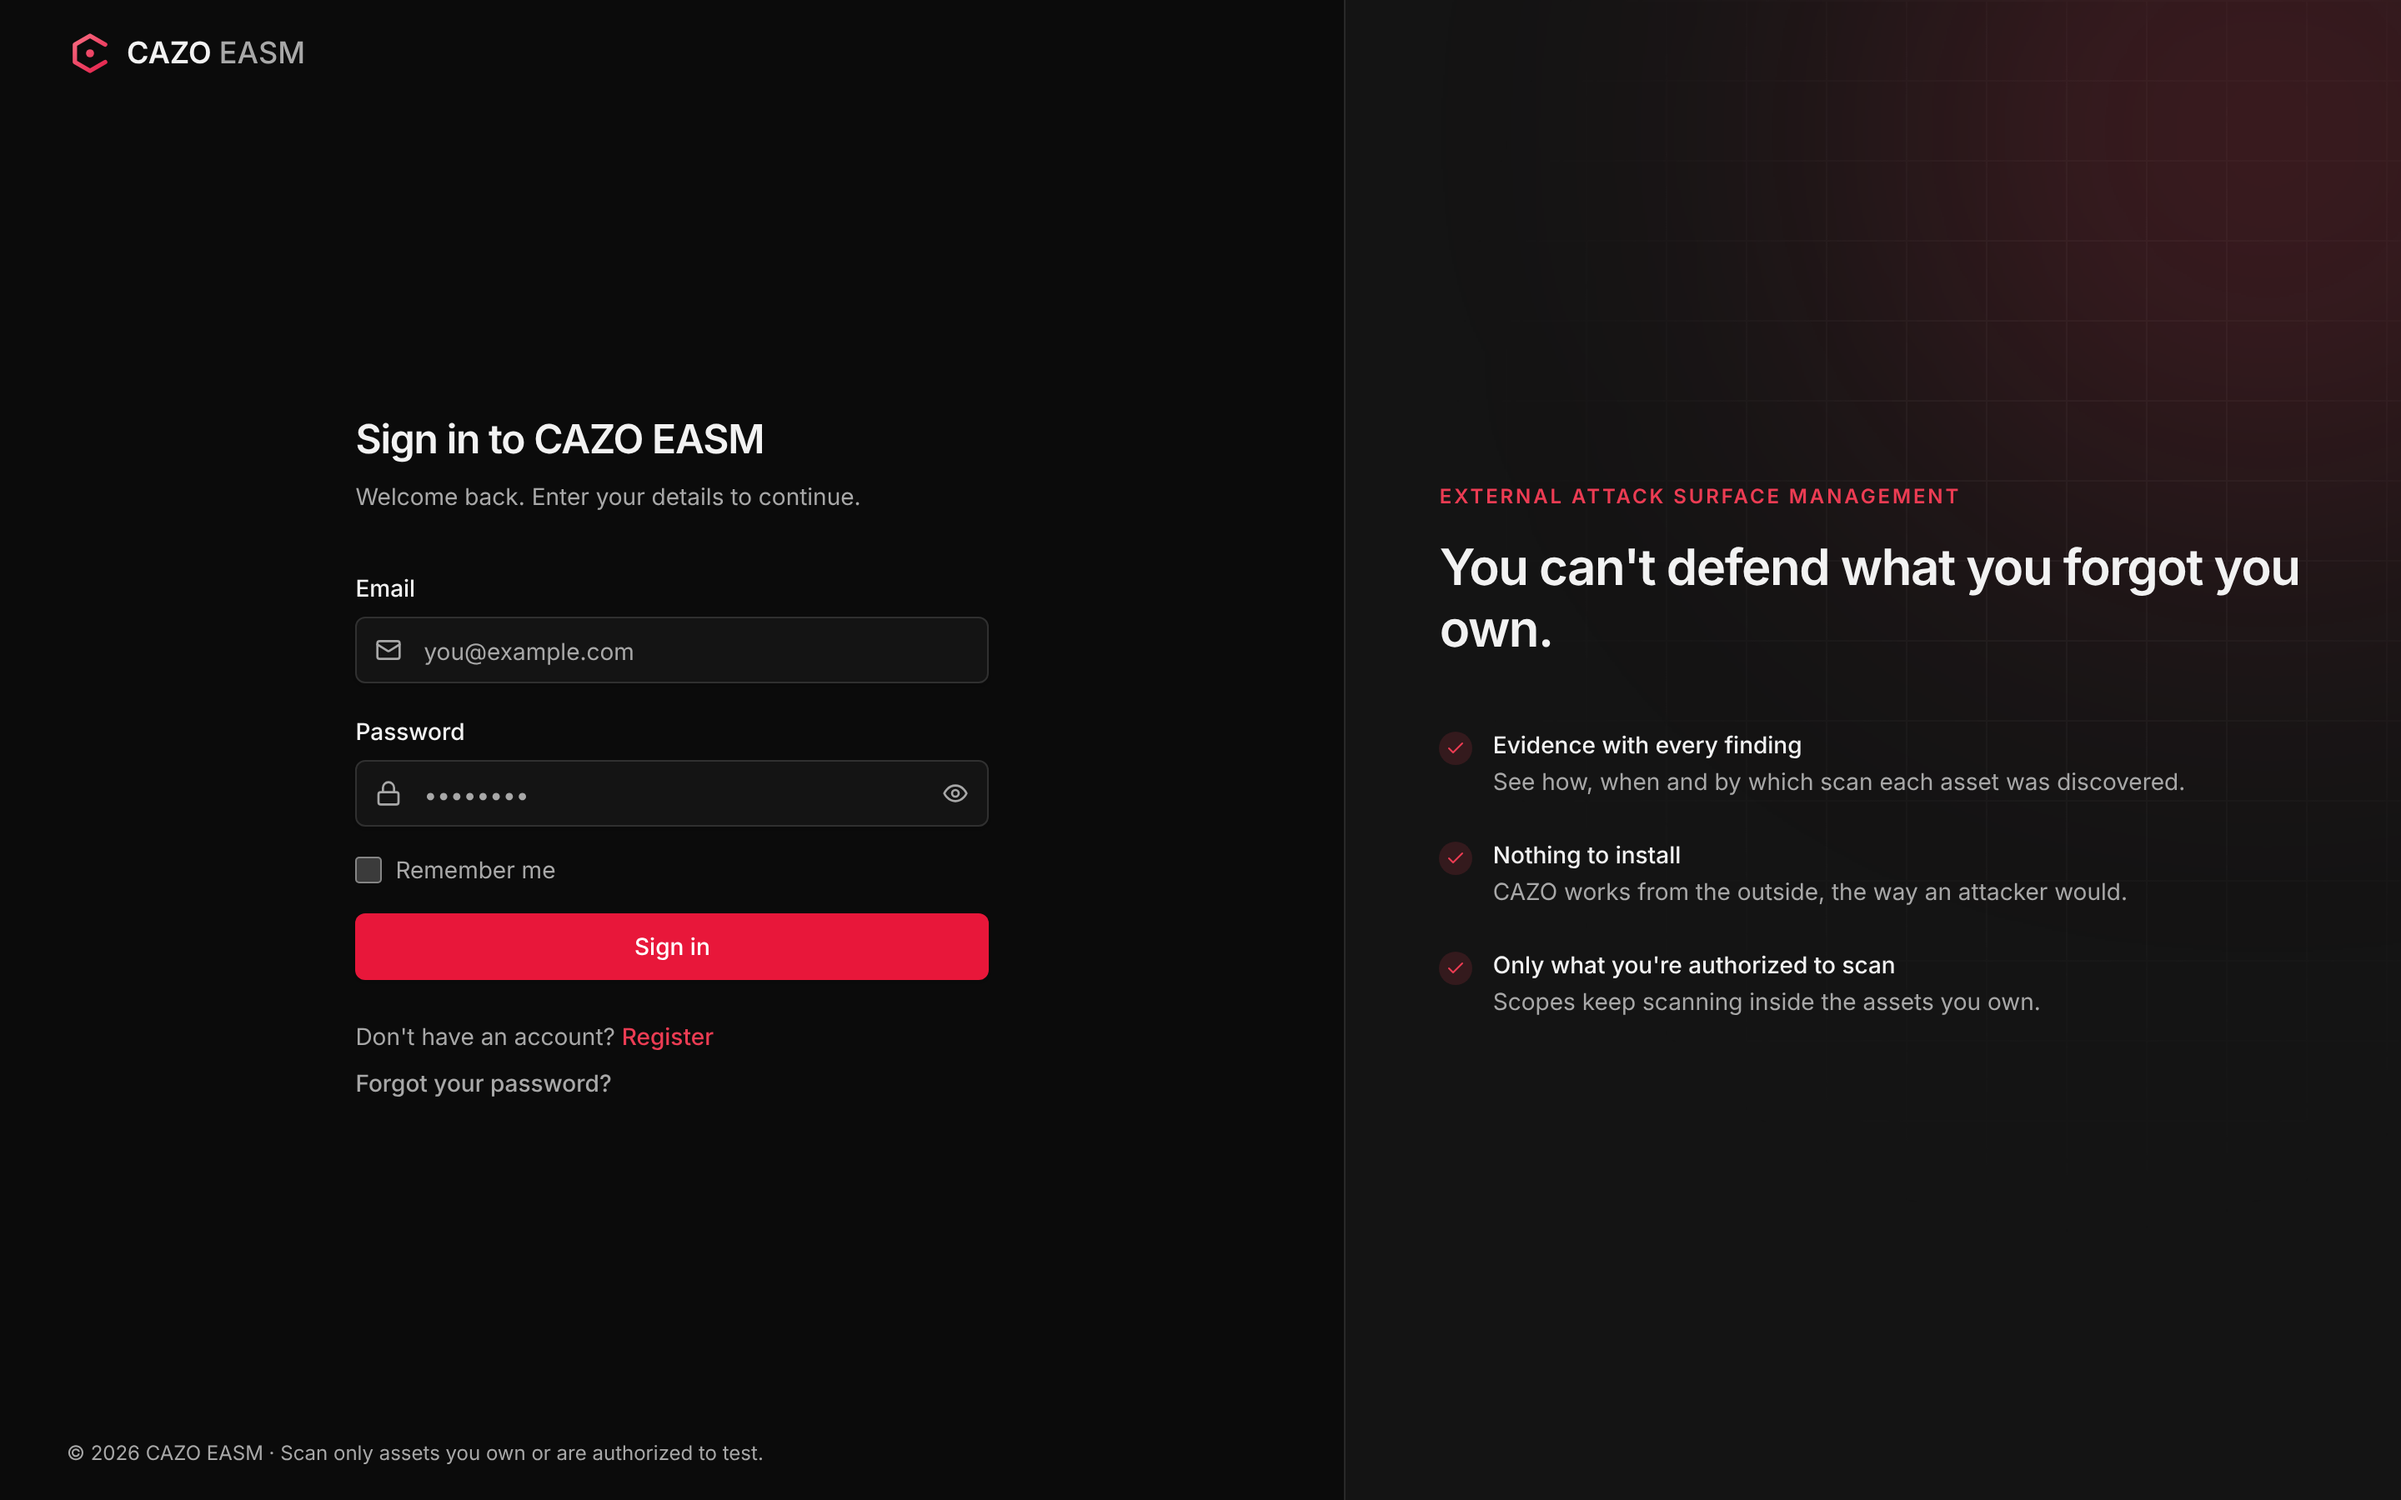
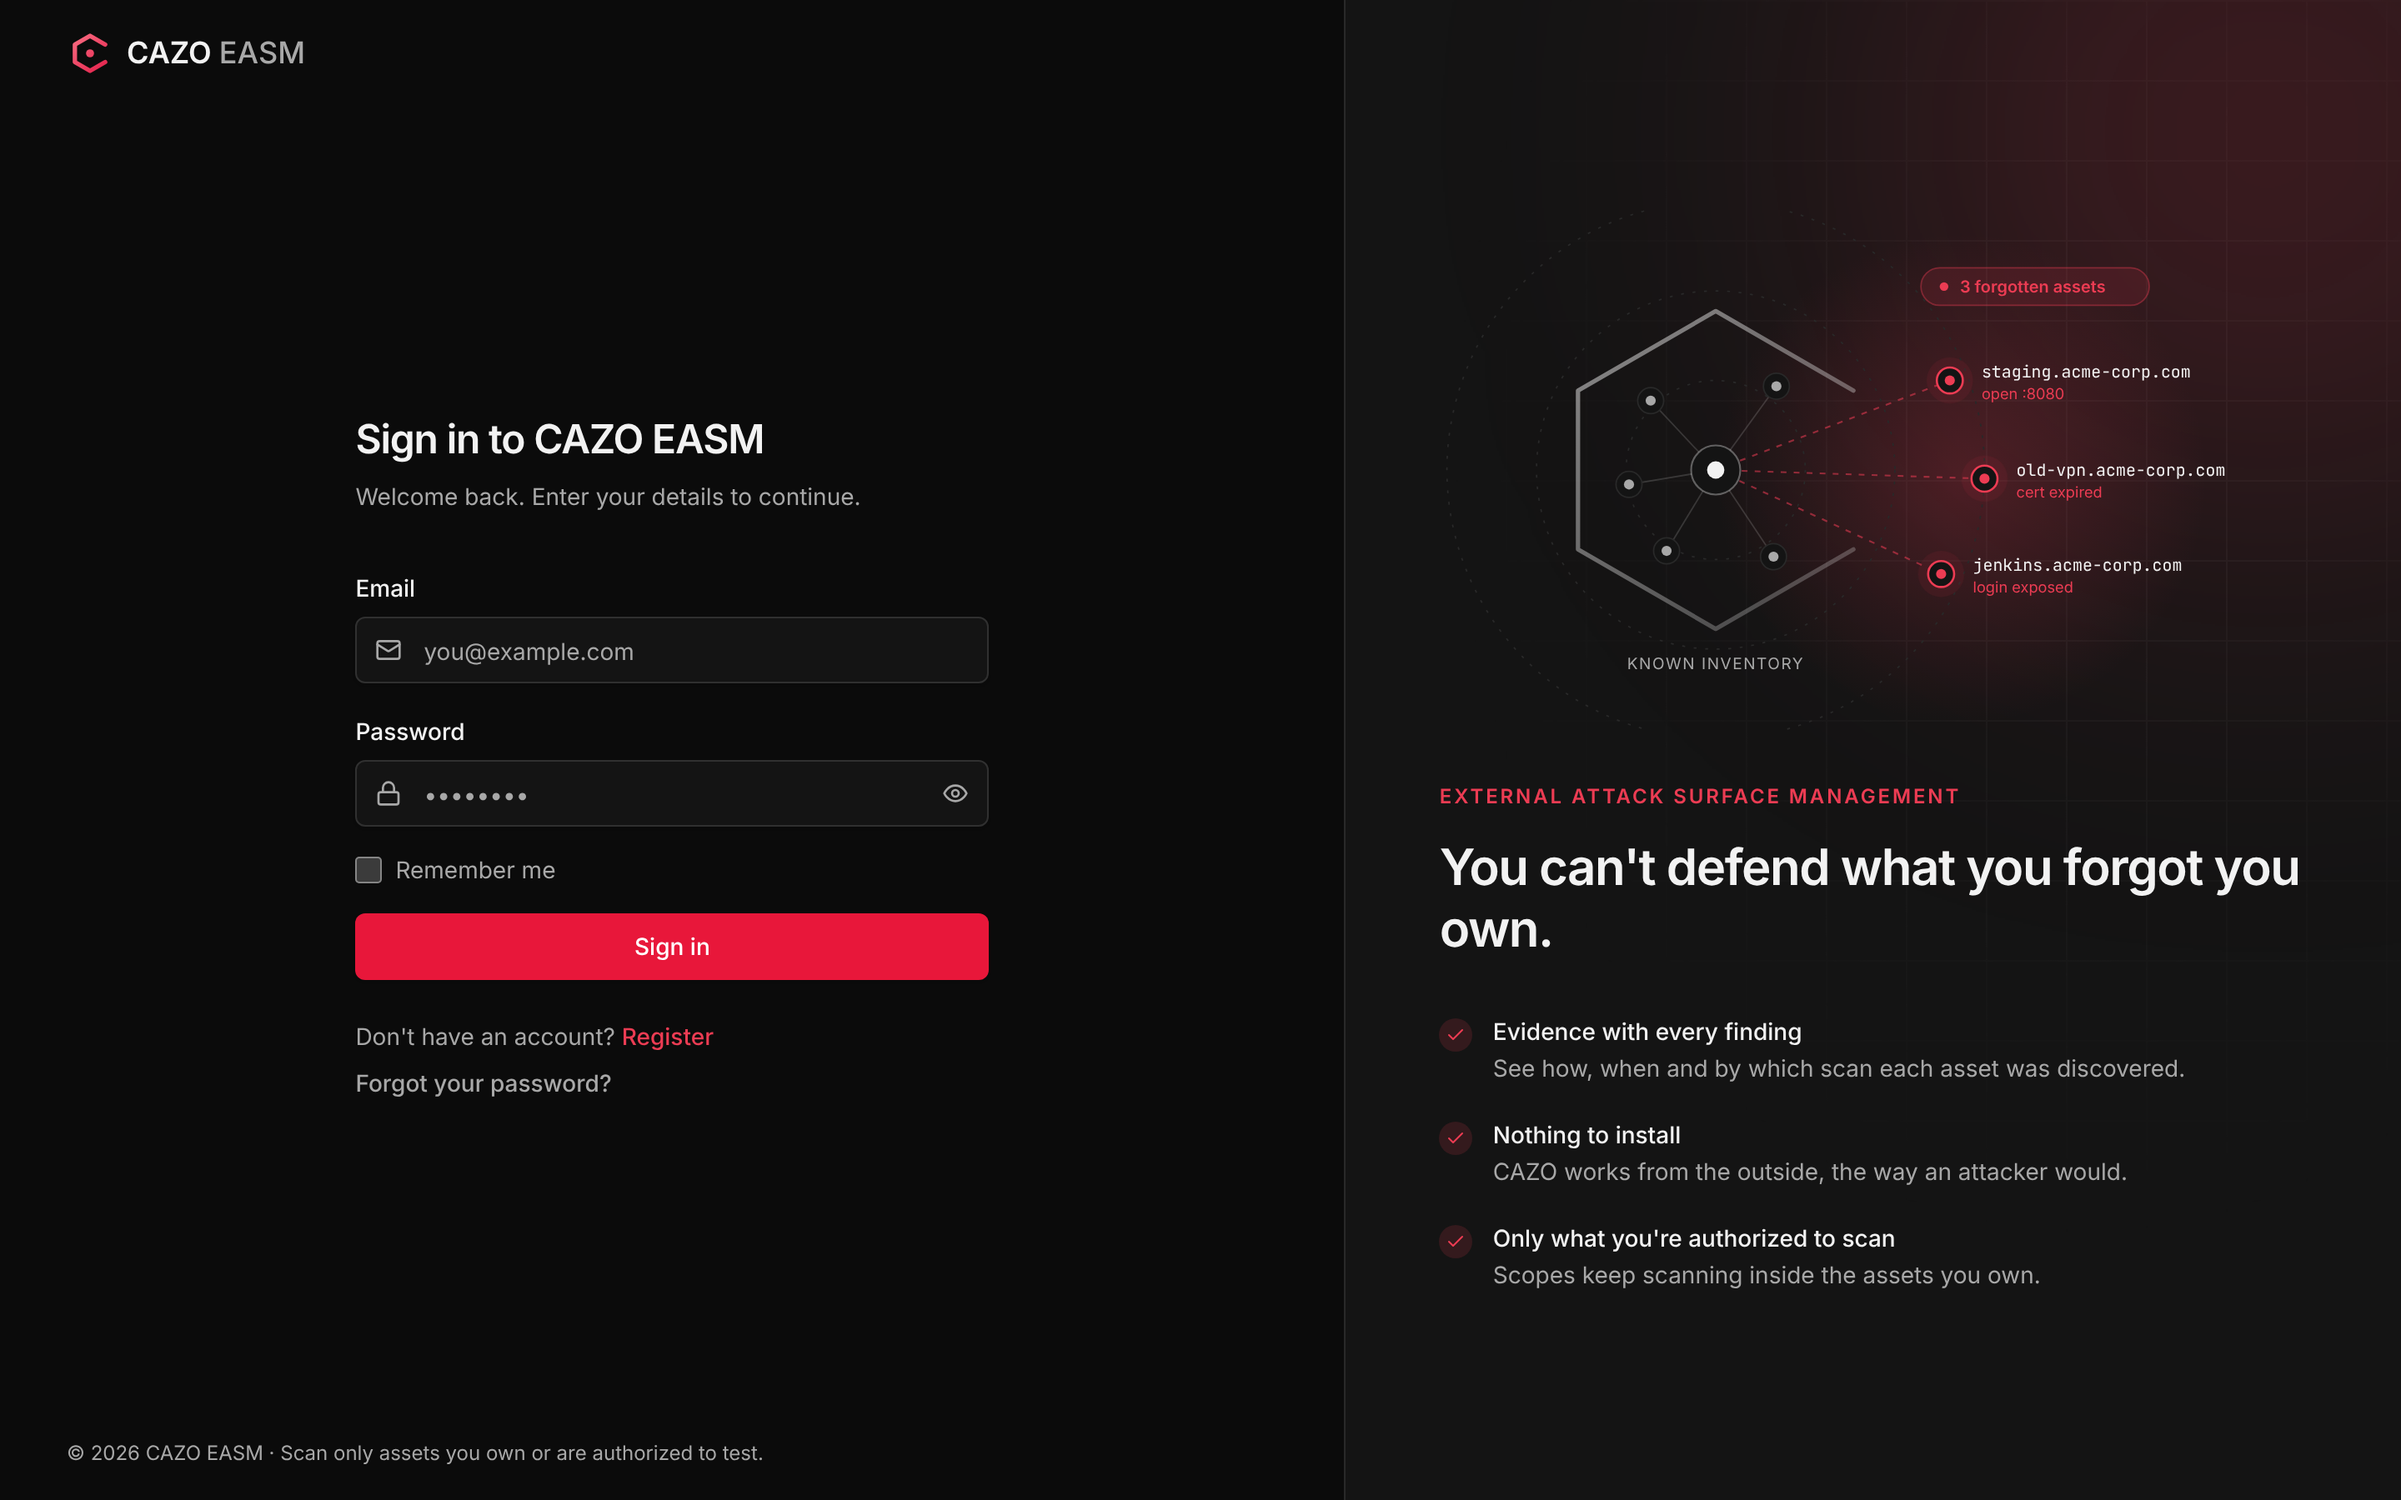
Add an attack-surface illustration to the sign-in pages
A known inventory inside an open perimeter (the shape of the mark) with
three forgotten assets outside it. Drawn as SVG from theme tokens, decorative
only, hidden on short screens and phones.

Claude-Session: https://claude.ai/code/session_017uDs6EG7hhSZv66DmBG4oW

diff --git a/frontend/src/components/auth/AttackSurfaceArt.tsx b/frontend/src/components/auth/AttackSurfaceArt.tsx
@@ -1,0 +1,114 @@
+/**
+ * Illustration for the sign-in pages: a known inventory inside an open
+ * perimeter (the shape of the CAZO mark), and three forgotten assets sitting
+ * outside it. Decorative only; the parent marks the panel aria-hidden.
+ *
+ * Colours come from the theme tokens, so it follows a re-brand.
+ */
+
+const CENTER = { x: 210, y: 180 };
+
+// Assets the organization knows about: inside the perimeter.
+const KNOWN = [
+  { x: 165, y: 132 },
+  { x: 252, y: 122 },
+  { x: 150, y: 190 },
+  { x: 176, y: 236 },
+  { x: 250, y: 240 },
+];
+
+// Assets nobody remembers: outside, reached through the open side.
+const FORGOTTEN = [
+  { x: 372, y: 118, label: "staging.acme-corp.com", note: "open :8080" },
+  { x: 396, y: 186, label: "old-vpn.acme-corp.com", note: "cert expired" },
+  { x: 366, y: 252, label: "jenkins.acme-corp.com", note: "login exposed" },
+];
+
+export function AttackSurfaceArt({ className = "" }: { className?: string }) {
+  return (
+    <svg
+      viewBox="0 0 600 360"
+      fill="none"
+      className={className}
+      role="presentation"
+      focusable="false"
+    >
+      <defs>
+        <radialGradient id="asa-glow" cx="0" cy="0" r="1" gradientUnits="userSpaceOnUse" gradientTransform="translate(380 186) scale(170)">
+          <stop stopColor="hsl(var(--primary))" stopOpacity="0.22" />
+          <stop offset="1" stopColor="hsl(var(--primary))" stopOpacity="0" />
+        </radialGradient>
+        <linearGradient id="asa-perimeter" x1="100" y1="70" x2="320" y2="290" gradientUnits="userSpaceOnUse">
+          <stop stopColor="hsl(var(--foreground))" stopOpacity="0.55" />
+          <stop offset="1" stopColor="hsl(var(--foreground))" stopOpacity="0.18" />
+        </linearGradient>
+      </defs>
+
+      {/* Glow behind the forgotten assets */}
+      <rect x="210" y="16" width="340" height="340" fill="url(#asa-glow)" />
+
+      {/* Range rings */}
+      {[62, 124, 186].map((r) => (
+        <circle key={r} cx={CENTER.x} cy={CENTER.y} r={r} stroke="hsl(var(--border))" strokeWidth="1" strokeDasharray="2 6" />
+      ))}
+
+      {/* Links to known assets */}
+      {KNOWN.map((n, i) => (
+        <line key={i} x1={CENTER.x} y1={CENTER.y} x2={n.x} y2={n.y} stroke="hsl(var(--foreground))" strokeOpacity="0.16" strokeWidth="1" />
+      ))}
+
+      {/* Links to forgotten assets, through the gap */}
+      {FORGOTTEN.map((n, i) => (
+        <line key={i} x1={CENTER.x} y1={CENTER.y} x2={n.x} y2={n.y} stroke="hsl(var(--primary))" strokeOpacity="0.55" strokeWidth="1.25" strokeDasharray="4 5" />
+      ))}
+
+      {/* The perimeter: a hexagon with its right edge missing */}
+      <path
+        d="M305.3 235 L210 290 L114.7 235 L114.7 125 L210 70 L305.3 125"
+        stroke="url(#asa-perimeter)"
+        strokeWidth="3"
+        strokeLinecap="round"
+        strokeLinejoin="round"
+      />
+
+      {/* Known assets */}
+      {KNOWN.map((n, i) => (
+        <g key={i}>
+          <circle cx={n.x} cy={n.y} r="9" fill="hsl(var(--card))" stroke="hsl(var(--border))" strokeWidth="1" />
+          <circle cx={n.x} cy={n.y} r="3.5" fill="hsl(var(--muted-foreground))" />
+        </g>
+      ))}
+
+      {/* The organization */}
+      <circle cx={CENTER.x} cy={CENTER.y} r="17" fill="hsl(var(--card))" stroke="hsl(var(--foreground))" strokeOpacity="0.35" strokeWidth="1.25" />
+      <circle cx={CENTER.x} cy={CENTER.y} r="6" fill="hsl(var(--foreground))" />
+      <text x={CENTER.x} y="318" textAnchor="middle" fontSize="11" fill="hsl(var(--muted-foreground))" style={{ letterSpacing: "0.08em" }}>
+        KNOWN INVENTORY
+      </text>
+
+      {/* Forgotten assets */}
+      {FORGOTTEN.map((n, i) => (
+        <g key={i}>
+          <circle cx={n.x} cy={n.y} r="16" fill="hsl(var(--primary))" fillOpacity="0.12" className="motion-safe:animate-pulse" />
+          <circle cx={n.x} cy={n.y} r="9" fill="hsl(var(--card))" stroke="hsl(var(--primary))" strokeWidth="1.5" />
+          <circle cx={n.x} cy={n.y} r="3.5" fill="hsl(var(--primary))" />
+          <text x={n.x + 22} y={n.y - 2} fontSize="11.5" fill="hsl(var(--foreground))" style={{ fontFamily: "var(--font-mono), ui-monospace, monospace" }}>
+            {n.label}
+          </text>
+          <text x={n.x + 22} y={n.y + 13} fontSize="10.5" fill="hsl(var(--primary))">
+            {n.note}
+          </text>
+        </g>
+      ))}
+
+      {/* Count badge */}
+      <g>
+        <rect x="352" y="40" width="158" height="26" rx="13" fill="hsl(var(--primary))" fillOpacity="0.12" stroke="hsl(var(--primary))" strokeOpacity="0.4" />
+        <circle cx="368" cy="53" r="3" fill="hsl(var(--primary))" />
+        <text x="379" y="57" fontSize="11.5" fontWeight="600" fill="hsl(var(--primary))">
+          3 forgotten assets
+        </text>
+      </g>
+    </svg>
+  );
+}

diff --git a/frontend/src/components/auth/AuthShell.tsx b/frontend/src/components/auth/AuthShell.tsx
@@ -8,6 +8,7 @@
 import * as React from "react";
 import { Check } from "lucide-react";
 import { CazoLogo } from "@/components/marketing/CazoLogo";
+import { AttackSurfaceArt } from "@/components/auth/AttackSurfaceArt";
 
 const POINTS = [
   { t: "Evidence with every finding", d: "See how, when and by which scan each asset was discovered." },
@@ -63,13 +64,15 @@ export function AuthShell({
         />
         <div className="pointer-events-none absolute -right-40 -top-40 h-[480px] w-[480px] rounded-full bg-primary/20 blur-[130px]" />
         <div className="relative">
+          {/* Hidden on short screens so the text is never pushed out of view. */}
+          <AttackSurfaceArt className="-ml-4 mb-8 w-full max-w-[520px] [@media(max-height:820px)]:hidden" />
           <p className="text-xs font-semibold uppercase tracking-[0.12em] text-primary">
             External attack surface management
           </p>
           <p className="mt-4 text-3xl font-semibold leading-tight tracking-tight">
             You can&apos;t defend what you forgot you own.
           </p>
-          <ul className="mt-10 space-y-6">
+          <ul className="mt-8 space-y-5">
             {POINTS.map((p) => (
               <li key={p.t} className="flex gap-3">
                 <span className="mt-0.5 flex h-5 w-5 shrink-0 items-center justify-center rounded-full bg-primary/15 text-primary">
